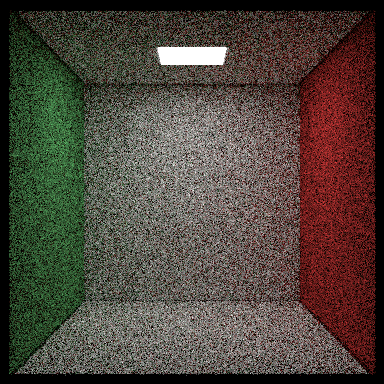
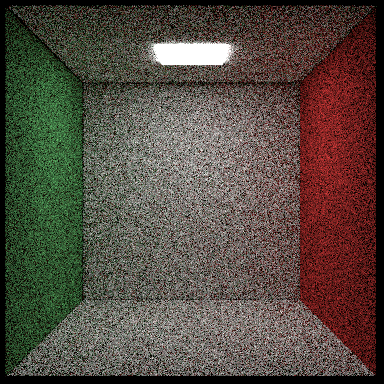
Tweaked cornell box side dimensions.

diff --git a/src/5_rectanglesAndLights/main.cpp b/src/5_rectanglesAndLights/main.cpp
@@ -229,32 +229,32 @@ void PopulateSceneObjects( const gm::FloatRange& i_shutterRange, raytrace::Scene
 
     // Lights.
     o_sceneObjects.push_back( std::make_shared< raytrace::Box >( /* origin */ gm::Vec3f( 278, 554, 278 ),
-                                                                 /* dimensions */ gm::Vec3f( 130, 0.001f, 130 ),
+                                                                 /* dimensions */ gm::Vec3f( 130, 0.01f, 130 ),
                                                                  /* material */ diffuseLight ) );
 
     // Bottom side.
     o_sceneObjects.push_back( std::make_shared< raytrace::Box >( /* origin */ gm::Vec3f( 278, 0, 278 ),
-                                                                 /* dimensions */ gm::Vec3f( 555, 0.001f, 555 ),
+                                                                 /* dimensions */ gm::Vec3f( 560, 0.01f, 560 ),
                                                                  /* material */ whiteLambert ) );
 
     // Top side.
-    o_sceneObjects.push_back( std::make_shared< raytrace::Box >( /* origin */ gm::Vec3f( 278, 555, 278 ),
-                                                                 /* dimensions */ gm::Vec3f( 555, 0.001f, 555 ),
+    o_sceneObjects.push_back( std::make_shared< raytrace::Box >( /* origin */ gm::Vec3f( 278, 560, 278 ),
+                                                                 /* dimensions */ gm::Vec3f( 560, 0.01f, 560 ),
                                                                  /* material */ whiteLambert ) );
 
     // Back side.
-    o_sceneObjects.push_back( std::make_shared< raytrace::Box >( /* origin */ gm::Vec3f( 278, 278, 555 ),
-                                                                 /* dimensions */ gm::Vec3f( 555, 555, 0.01f ),
+    o_sceneObjects.push_back( std::make_shared< raytrace::Box >( /* origin */ gm::Vec3f( 278, 278, 560 ),
+                                                                 /* dimensions */ gm::Vec3f( 560, 560, 0.01f ),
                                                                  /* material */ whiteLambert ) );
 
     // Left side.
-    o_sceneObjects.push_back( std::make_shared< raytrace::Box >( /* origin */ gm::Vec3f( 555, 278, 278 ),
-                                                                 /* dimensions */ gm::Vec3f( 0.01f, 555, 555 ),
+    o_sceneObjects.push_back( std::make_shared< raytrace::Box >( /* origin */ gm::Vec3f( 560, 278, 278 ),
+                                                                 /* dimensions */ gm::Vec3f( 0.01f, 560, 560 ),
                                                                  /* material */ greenLambert ) );
 
     // Right side.
     o_sceneObjects.push_back( std::make_shared< raytrace::Box >( /* origin */ gm::Vec3f( 0, 278, 278 ),
-                                                                 /* dimensions */ gm::Vec3f( 0.01f, 555, 555 ),
+                                                                 /* dimensions */ gm::Vec3f( 0.01f, 560, 560 ),
                                                                  /* material */ redLambert ) );
 }
 
